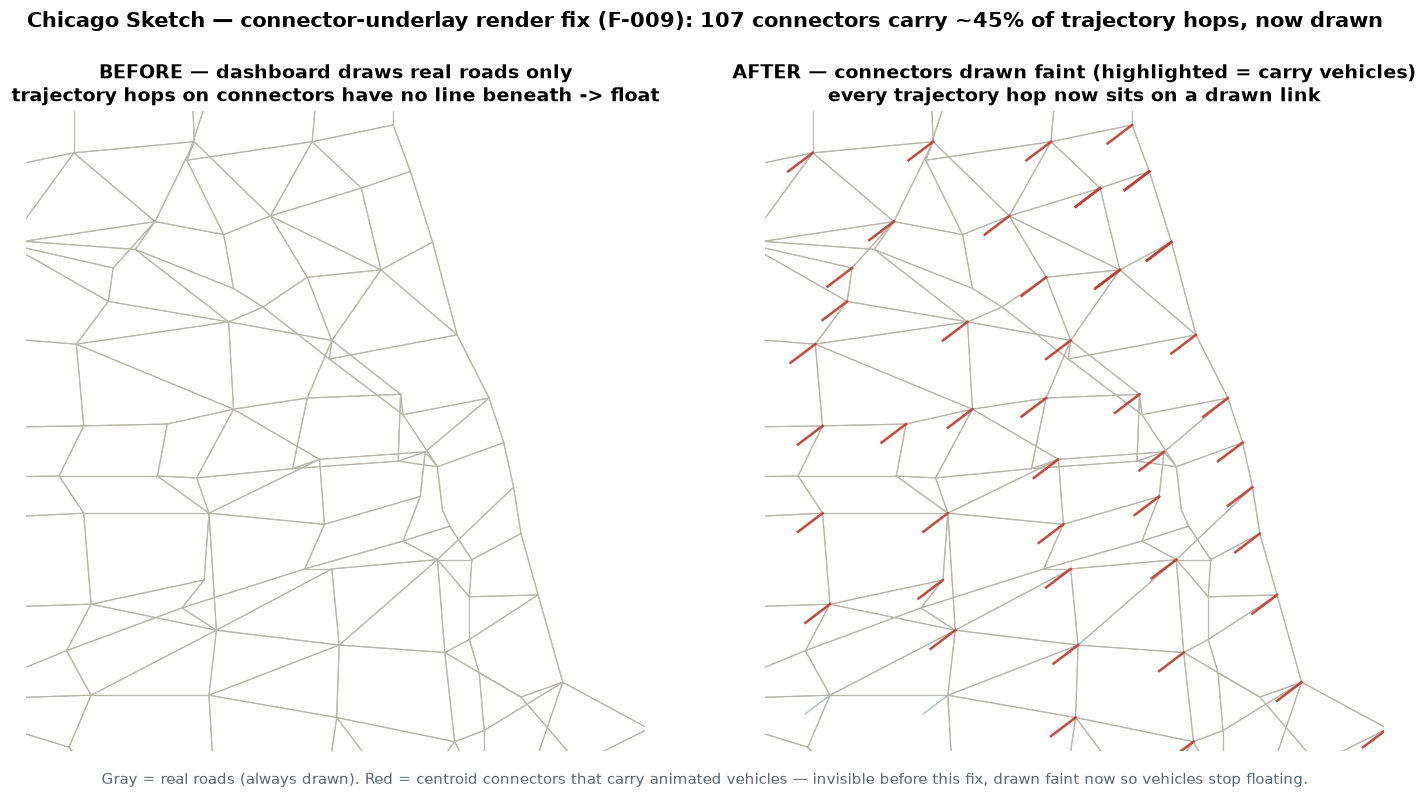
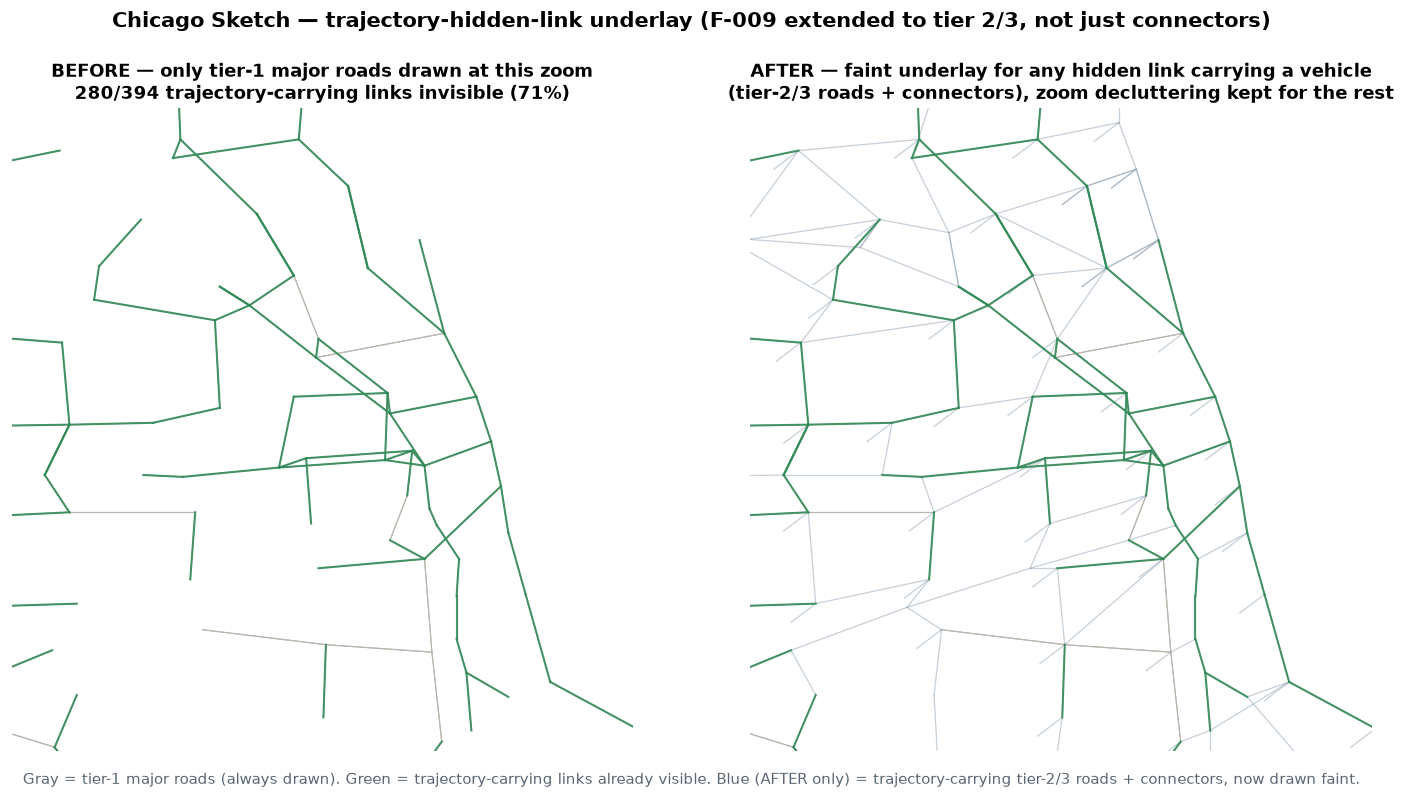
Extend F-009 underlay to zoom-hidden tier-2/3 roads, not just connectors
Ziyi asked why some trajectories still looked like they traverse unmarked
roads even after the connector fix. Root cause: a second, larger source of
the same failure mode. Roads are LOD-tiered by capacity (zTier=zoom<2.5?1:
zoom<8?2:3) so tier-2/3 minor roads only draw once zoomed in — an intentional
declutter — but trajectories don't respect it. At default zoom, 18%+6% of
Chicago's trajectory hops sit on tier-2/3 roads that simply aren't drawn yet.

Combined with connectors: on the 10% sample, 394 links carry vehicles and
280 of them (71%) were invisible at default zoom (107 connectors + 136
tier-2 + 37 tier-3).

Fix (draw() JS): precompute M.trajLinks once (every link a loaded trajectory
touches), then draw the faint underlay for any link that is BOTH
vehicle-carrying AND hidden by the current tier/zoom (t>zTier || t===4) —
not the full tier-2/3 road set, so the zoom declutter still applies to the
~1400 roads with no trajectory traffic.

Regression-tested: no-trajectory datasets (toys, sioux_falls) regenerate
identically; JS syntax-checked via node; validate_no_private_data.py clean.
Updated qa/FIXES_2026-07-07.md and qa/qa_report.html (F-009) with the
extended before/after evidence.

diff --git a/qa/qa_report.html b/qa/qa_report.html
@@ -25,7 +25,7 @@ window.RESULTS = {
     release_version: "v0.1.0 — LIVE on PyPI",
     reporter: "Ziyi Zhang + AI agent"
   },
-  summary_note: "v0.1.0 is LIVE on PyPI. Phase 2 QA began on the chicago_sketch showcase and went a level deeper — from 'generates without error' to 'shows the user something meaningful' — which caught two real defects, both now FIXED. F-008: the vehicle animation collapsed into 1% of the network (trajectories were subsampled by lowest agent-id); fixed to an even spread AND raised to ~10% of agents -> 44 -> 394 links (13%), 3000 agents. F-009: vehicles floated off the network because centroid connectors (~45% of trajectory hops) were never drawn; now drawn as a faint underlay beneath the animation. F-007: the quickstart dead-ended for pip-only users and produced a bare network on sioux_falls; README rewritten to lead with chicago_sketch, point pip users at their own folder, and add the 'python -m' fallback for locked-down Windows. Full change log + evidence in qa/FIXES_2026-07-07.md. One open item needs Prof. Zhou: F-006, the empty Chicago corridor contour (ship corridor_speed.csv vs re-mark the coverage table). Proposing two new 'meaningful output' checkpoints (O effective-output, P first-run) so this whole class is caught mechanically. NEXT: adapters + checkpoint-L defect-injection on toys.",
+  summary_note: "v0.1.0 is LIVE on PyPI. Phase 2 QA began on the chicago_sketch showcase and went a level deeper — from 'generates without error' to 'shows the user something meaningful' — which caught two real defects, both now FIXED. F-008: the vehicle animation collapsed into 1% of the network (trajectories were subsampled by lowest agent-id); fixed to an even spread AND raised to ~10% of agents -> 44 -> 394 links (13%), 3000 agents. F-009: vehicles floated off the network — 71% of vehicle-carrying links (connectors + zoom-hidden tier-2/3 roads) weren't drawn at default zoom; now a faint underlay covers exactly the hidden links a vehicle actually uses, while the zoom declutter still applies to the rest of the road network. F-007: the quickstart dead-ended for pip-only users and produced a bare network on sioux_falls; README rewritten to lead with chicago_sketch, point pip users at their own folder, and add the 'python -m' fallback for locked-down Windows. Full change log + evidence in qa/FIXES_2026-07-07.md. One open item needs Prof. Zhou: F-006, the empty Chicago corridor contour (ship corridor_speed.csv vs re-mark the coverage table). Proposing two new 'meaningful output' checkpoints (O effective-output, P first-run) so this whole class is caught mechanically. NEXT: adapters + checkpoint-L defect-injection on toys.",
   phases: [
     { id: "P0", name: "Discovery & guard test",  status: "done",    note: "repo cloned · pip install -e . OK · smoke on toys OK · decoy guard test PASSED" },
     { id: "P1", name: "Release v0.1.0 to PyPI",  status: "done",    note: "LIVE on PyPI; OIDC publish green; clean-venv pip install verified" },
@@ -96,8 +96,8 @@ window.RESULTS = {
       detail: "load() subsampled trajectories with 'if agent_id >= max_traj: continue' — it kept the 2000 LOWEST agent ids, not a representative sample. Ids are assigned by origin zone / departure order, so the low ids cluster: on Chicago the animation touched only 44/2950 links (1%). FIX (ai-gen/gui4gmns.py): (1) keep agents spread EVENLY across the sorted id space, and (2) animate ~10% of the run's agents instead of a flat 2000 (default cap raised 2000->10000). Chicago now animates 3000 agents (10% of 30k) over 394/2950 links (13%), ~9x more coverage. File ~0.64 MB, still offline. See qa/FIXES_2026-07-07.md and the before/after map.",
       issue: "", evidence: ["qa/evidence/F008_trajectory_coverage_before_after.png", "qa/FIXES_2026-07-07.md"] },
     { id: "F-009", severity: "major",
-      title: "FIXED — animated vehicles float off the network (centroid connectors not drawn)",
-      detail: "GMNS centroid connectors (virtual zone-to-road links) are correctly unlabeled and undrawn among the road tiers, but ~45% of trajectory hops traverse one (trips start/end on a connector). With the connector never drawn, a vehicle on it has no line beneath it and appears to float in empty space. On Chicago, 107 connectors carry the sampled trajectories. FIX (draw() JS): when there are vehicles to animate, draw tier-4 connectors as a thin, dim underlay beneath the dots/trails — visually subordinate to real roads, no labels. Network-only views (no trajectories) unchanged. See qa/FIXES_2026-07-07.md and the before/after map.",
+      title: "FIXED — animated vehicles float off the network (undrawn connectors + zoom-hidden tier-2/3 roads)",
+      detail: "Two compounding causes, both 'real link, not drawn'. (1) GMNS centroid connectors (virtual zone-to-road links) are correctly unlabeled/undrawn, but ~45% of trajectory hops traverse one. (2) Zoom-based LOD: tier-2 'middle' roads only draw at zoom>=2.5x, tier-3 'minor' only at 8x (intentional decluttering) — but trajectories don't respect it; 18%+6% of hops sit on tier-2/3 roads hidden at default zoom. On Chicago's 10% sample, 394 links carry vehicles and 280 (71%) were invisible at default zoom (107 connectors + 136 tier-2 + 37 tier-3). FIX (draw() JS): precompute M.trajLinks (every link a loaded trajectory touches) once, then draw a thin dim underlay ONLY for links that are both vehicle-carrying AND hidden by the current tier/zoom — the ~1400 tier-2/3 roads with no trajectory keep the zoom declutter. Network-only views (no trajectories) and toy-dataset regen are unchanged (regression-tested). See qa/FIXES_2026-07-07.md and the before/after map.",
       issue: "", evidence: ["qa/evidence/F009_connector_underlay_before_after.png", "qa/FIXES_2026-07-07.md"] },
     { id: "F-007", severity: "major",
       title: "FIXED — quickstart produced an empty dashboard / didn't run (README)",

diff --git a/ai-gen/gui4gmns.py b/ai-gen/gui4gmns.py
@@ -360,6 +360,9 @@ input[type=range]{width:260px;accent-color:#4db8ff}
 <script>
 const DATA=__DATA__;
 const M={links:DATA.links,nodes:DATA.nodes,geo:DATA.meta.geo,bins:DATA.bins,td:DATA.td,trajs:DATA.trajs,run:DATA.run};
+// precompute once: every link_id actually traversed by a loaded trajectory (event[1]==link_id) —
+// used to draw a faint underlay under vehicles on links the current zoom/tier would otherwise hide.
+M.trajLinks=new Set();for(const k in M.trajs)for(const ev of M.trajs[k])M.trajLinks.add(ev[1]);
 const my=lat=>180/Math.PI*Math.log(Math.tan(Math.PI/4+lat*Math.PI/360));
 const DEM=DATA.demand||{}, DIST=DATA.dist||{};
 if(M.geo){M.links.forEach(L=>L[1]=L[1].map(p=>[p[0],my(p[1])]));
@@ -425,11 +428,12 @@ function draw(){cv.width=cv.clientWidth;cv.height=cv.clientHeight;if(!bbox)retur
   const[,w]=styleOf(L,mode,b);ctx.strokeStyle='rgba(0,0,0,0.71)';ctx.lineWidth=w+3;path(L);});
  M.links.forEach(L=>{const t=L[6]||3;if(t>zTier||L[2]<mv)return;
   const[v,w]=styleOf(L,mode,b);ctx.strokeStyle=v<0?'#39424e':ramp(v);ctx.lineWidth=w;path(L);});
- // faint connector underlay: centroid connectors (tier 4) aren't real roads and stay unlabeled, but
- // ~half of trajectory hops traverse them — draw them thin+dim ONLY when there are vehicles to animate,
- // so moving dots/trails have a visible path instead of floating off the drawn network.
- if(Object.keys(M.trajs).length){ctx.strokeStyle='rgba(150,162,178,0.22)';ctx.lineWidth=0.7;
-  M.links.forEach(L=>{if((L[6]||3)===4)path(L);});}
+ // faint underlay for links a vehicle is actually on but the current view hides: centroid connectors
+ // (tier 4, never a "real road") AND tier-2/3 roads below the zoom's LOD threshold (t>zTier) — e.g. a
+ // trip on a local street while zoomed out. Only links M.trajLinks marks as vehicle-carrying get this,
+ // so the zoom-based road declutter still applies to the rest of the tier-2/3 network.
+ if(M.trajLinks.size){ctx.strokeStyle='rgba(150,162,178,0.22)';ctx.lineWidth=0.7;
+  M.links.forEach(L=>{const t=L[6]||3;if((t>zTier||t===4)&&M.trajLinks.has(L[0]))path(L);});}
  if(document.getElementById('checks').checked)
   M.links.forEach(L=>{if((L[6]||3)===1&&L[2]===0){ctx.strokeStyle='#ff4df0';ctx.lineWidth=2.5;path(L);}});
  if(document.getElementById('demand')&&document.getElementById('demand').checked&&DEM.lines){

diff --git a/qa/FIXES_2026-07-07.md b/qa/FIXES_2026-07-07.md
@@ -55,32 +55,49 @@ Datasets with fewer agents than the target keep all of them, as before.
 ## Fix 2 — Animated vehicles float off the network  (F-009, render fix)
 
 **Problem (what the user sees).** Even with a good trajectory sample, many moving vehicles / trail
-segments appear to run through **empty space**, not on any drawn road — especially where trips enter
-or leave the network.
+segments appear to run through **empty space**, not on any drawn road.
 
-**Before / after.** Red = the centroid connectors that actually carry animated vehicles.
+**Before / after.**
 
-![Connector underlay before/after](evidence/F009_connector_underlay_before_after.png)
+![Trajectory-hidden-link underlay before/after](evidence/F009_connector_underlay_before_after.png)
 
-**Root cause.** GMNS networks use **centroid connectors** — virtual links joining a zone centroid to the
-real road it feeds. They aren't real roads, so the dashboard (correctly) leaves them **unlabeled and
-undrawn** among the road tiers. But **~45% of trajectory hops traverse a connector** (a trip starts and
-ends on one). With the connector never drawn, a vehicle on it has no line beneath it → it floats. On
-Chicago, 107 connectors carry the sampled trajectories.
+**Root cause — two compounding causes, both "real link, not drawn":**
 
-**The change (`draw()` in the embedded JS).** When — and only when — there are vehicles to animate, draw
-the connector links (tier 4) as a **thin, dim underlay** beneath the moving dots/trails:
+1. **Centroid connectors** — virtual links joining a zone centroid to the real road it feeds. Correctly
+   left unlabeled/undrawn among the road tiers (tier 4), but **~45% of trajectory hops traverse one**
+   (a trip starts and ends on one).
+2. **Zoom-based LOD (level of detail).** Real roads are split into tiers by capacity — tier 1 "major"
+   (top 15%) draws at any zoom; tier 2 "middle" only draws once zoomed to 2.5×; tier 3 "minor" only at
+   8×. This is intentional decluttering (`zTier=zoom<2.5?1:zoom<8?2:3`) — but trajectories don't respect
+   it. At the default zoom, **18% of hops are on tier-2 roads and 6% on tier-3**, all real, all in
+   `link.csv`, just not drawn yet.
+
+Combined: on Chicago's 10%-sample, **394 links carry animated vehicles, and 280 of them (71%) were
+invisible at the default zoom** — 107 connectors + 136 tier-2 + 37 tier-3.
+
+**The change (`draw()` in the embedded JS).** Precompute once which links carry a loaded trajectory
+(`M.trajLinks`), then — only for links a vehicle is actually on, and only when hidden by the current
+tier/zoom — draw them as a thin, dim underlay:
 
 ```js
-if(Object.keys(M.trajs).length){
-  ctx.strokeStyle='rgba(150,162,178,0.22)'; ctx.lineWidth=0.7;
-  M.links.forEach(L=>{if((L[6]||3)===4)path(L);});
+// once, at load:
+M.trajLinks = new Set();
+for (const k in M.trajs) for (const ev of M.trajs[k]) M.trajLinks.add(ev[1]);
+
+// every draw() call:
+if (M.trajLinks.size) {
+  ctx.strokeStyle = 'rgba(150,162,178,0.22)'; ctx.lineWidth = 0.7;
+  M.links.forEach(L => {
+    const t = L[6] || 3;
+    if ((t > zTier || t === 4) && M.trajLinks.has(L[0])) path(L);
+  });
 }
 ```
 
-**Effect.** Vehicles now sit on a visible (faint) path everywhere. Connectors stay visually subordinate
-to real roads — thin and dim, no labels — so the map still reads as a road network, and network-only
-views (no trajectories, e.g. Sioux Falls) are unchanged.
+**Effect.** Every animated vehicle now sits on a visible (faint) path. The zoom-based declutter still
+applies to the ~1400 tier-2/3 roads that carry **no** trajectory — only the 280 that do get lit up, so
+the map doesn't revert to "draw everything." Network-only views (no trajectories, e.g. Sioux Falls)
+are unchanged; toy datasets and a no-trajectory smoke test regenerate identically to before.
 
 ## Fix 3 — Quickstart produced an empty dashboard / didn't run at all  (F-007, docs fix)
 